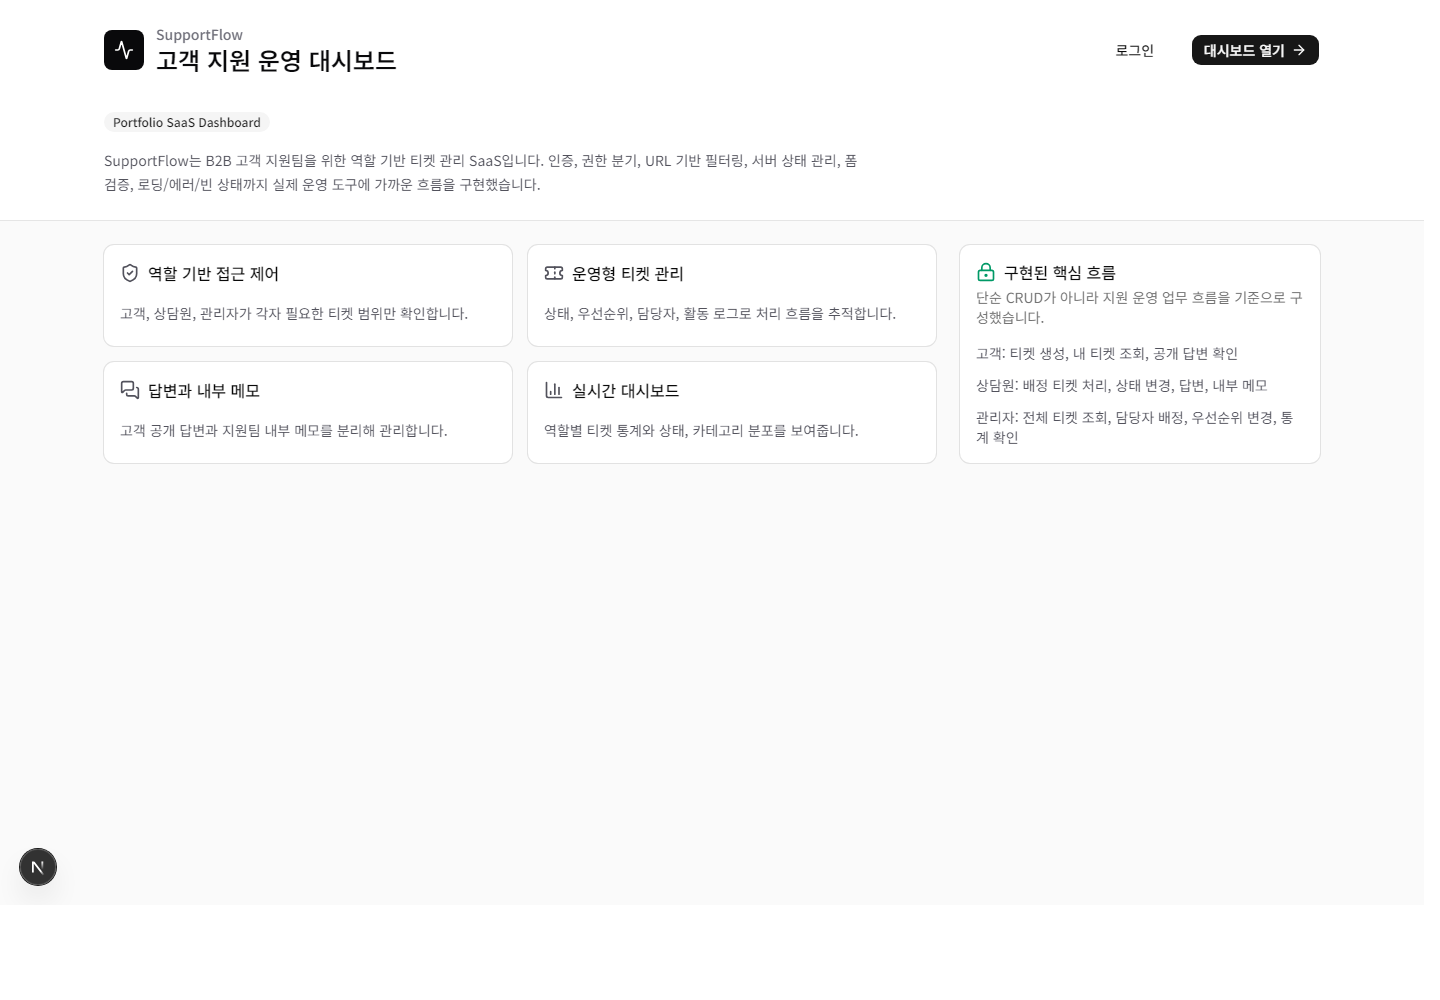
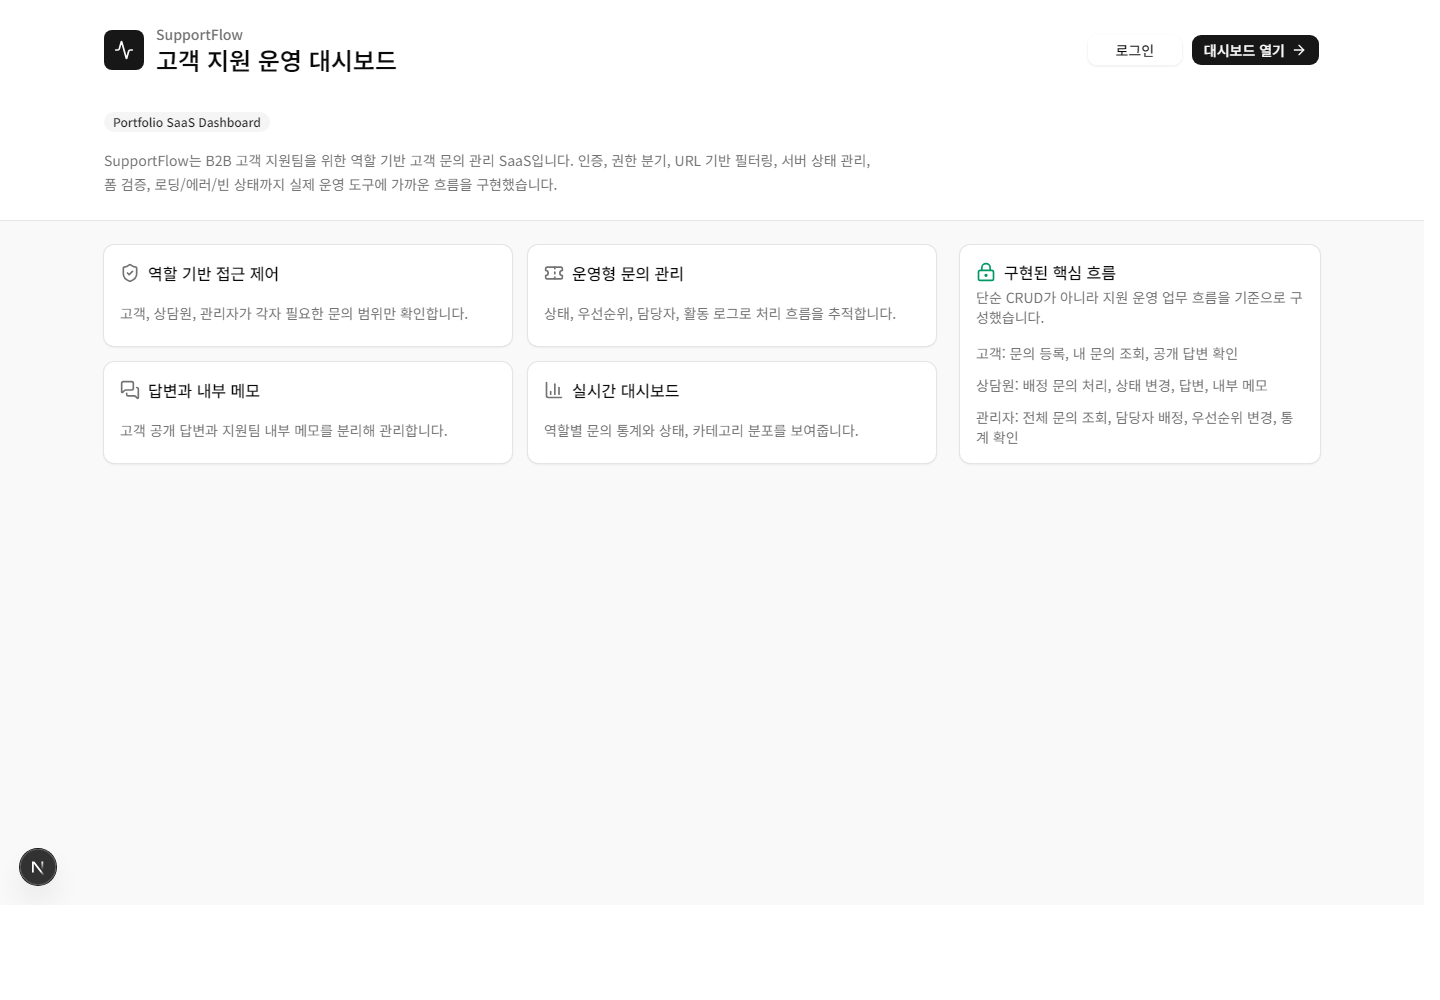
docs(readme): 최종 QA 내용과 스크린샷 갱신
고객 중심 문의 흐름, 단일 공식 답변, create_ticket_reply RPC, 고객 화면 메타데이터 처리 내용을 README에 반영했다.

공개 홈과 로그인 스크린샷을 최신 UI 기준으로 다시 캡처하고 최종 QA 체크리스트를 갱신했다.

diff --git a/README.md b/README.md
@@ -53,6 +53,7 @@ SupportFlow demonstrates the front-end patterns expected in an internal SaaS das
 - Status changes for agents and admins
 - Priority changes and agent assignment for admins
 - Customer-visible replies and internal support notes
+- Single official public reply per customer inquiry
 - Activity logs for ticket operations
 - Dashboard statistics by role-scoped ticket access
 - Light/dark mode toggle
@@ -64,13 +65,15 @@ SupportFlow enforces roles in both UI flow and Supabase row-level security.
 
 | Role | Access |
 | --- | --- |
-| Customer | Create tickets, view only own tickets, view public replies |
+| Customer | Create inquiries, view only own inquiries, view public replies |
 | Agent | View assigned tickets, reply, change status, add internal notes, view assigned-ticket dashboard |
 | Admin | View all tickets, assign agents, change priority/status, view operational dashboard statistics |
 
 The client receives the current profile and passes role context to feature hooks. Supabase RLS policies also restrict access at the database layer.
 
 Customer accounts are intentionally routed to `/tickets` instead of `/dashboard`. In a real support product, customers usually need a focused "my inquiries" area, while dashboards are operational tools for agents and admins.
+
+Customer-facing screens hide internal operation metadata such as assignee IDs, customer IDs, and priority. Agents and admins keep the full operational view.
 
 ## URL-Based Filtering
 
@@ -104,6 +107,8 @@ Server state is handled through feature hooks:
 
 Mutations invalidate ticket, ticket list, and dashboard queries after changes. Ticket action updates use optimistic UI updates with rollback on failure.
 
+Public reply creation uses the `create_ticket_reply` Supabase RPC. The function validates the authenticated user's role, creates the reply and activity log together, prevents duplicate public replies, and moves answered inquiries to `resolved`.
+
 ## Forms and Validation
 
 Forms use React Hook Form with Zod schemas:
@@ -117,6 +122,8 @@ Forms use React Hook Form with Zod schemas:
 Submit buttons are disabled while pending, and validation messages are shown next to the relevant field.
 
 Customers do not set operational priority when creating a ticket. New tickets use the database default priority and admins can adjust priority after triage.
+
+Agents and admins can create one customer-visible official answer per inquiry. Follow-up operational context should be recorded as internal notes.
 
 ## Loading, Error, Empty, and Unauthorized States
 
@@ -148,8 +155,6 @@ Screenshots are stored in `docs/screenshots`.
 | --- | --- |
 | Home | `docs/screenshots/home.png` |
 | Login | `docs/screenshots/login.png` |
-
-Dashboard and authenticated ticket screenshots should be captured after seed users are available in the deployed environment.
 
 ## Folder Structure
 
@@ -241,6 +246,7 @@ The schema includes:
 - `ticket_logs`
 - enum types for roles, status, and priority
 - RLS policies for customers, agents, and admins
+- `create_ticket_reply` RPC for reply creation and activity logging
 - trigger helpers for profile creation and ticket timestamps
 
 ## Demo Accounts
@@ -261,6 +267,20 @@ update public.profiles set role = 'agent' where email = 'agent@supportflow.dev';
 update public.profiles set role = 'admin' where email = 'admin@supportflow.dev';
 ```
 
+If you add the reply RPC after test data already exists, you can normalize answered inquiries:
+
+```sql
+update public.tickets
+set status = 'resolved'
+where status in ('open', 'in_progress')
+and exists (
+  select 1
+  from public.ticket_replies
+  where ticket_replies.ticket_id = tickets.id
+  and ticket_replies.is_internal = false
+);
+```
+
 ## Useful Scripts
 
 ```bash
@@ -277,6 +297,8 @@ npm.cmd run build
 | Signup succeeds but role is wrong | Update `profiles.role` in Supabase |
 | Agent sees no tickets | Assign tickets to the agent through an admin account |
 | Admin cannot assign agents | Verify admin profile role and profile select policy |
+| Customer cannot see a public reply | Verify the customer owns the inquiry and the public reply select policy exists |
+| Reply creation hits RLS | Re-run `docs/SUPABASE_SCHEMA.sql` or at least the `create_ticket_reply` function and grant |
 | `npm` is blocked in PowerShell | Use `npm.cmd run dev`, `npm.cmd run lint`, or `npm.cmd run build` |
 
 ## Deployment
@@ -284,7 +306,7 @@ npm.cmd run build
 Target platform: Vercel
 
 ```txt
-Deployment URL: TBD
+Deployment URL: Not deployed yet
 ```
 
 Add these environment variables in Vercel:
@@ -310,3 +332,6 @@ Completed phases:
 - Dashboard statistics
 - Polish
 - Portfolio documentation
+- Customer-facing inquiry UX refinements
+- Light/dark theme toggle
+- Final QA documentation pass

diff --git a/docs/TASKS.md b/docs/TASKS.md
@@ -130,5 +130,18 @@
 - [x] Add tech stack explanation
 - [x] Add folder structure explanation
 - [x] Add troubleshooting section
-- [x] Add deployment link
+- [x] Document deployment target
 - [x] Add screenshots
+
+## Final QA polish
+
+- [x] Route customers to inquiry list instead of dashboard
+- [x] Remove customer priority selection
+- [x] Use customer-facing inquiry terminology in the UI
+- [x] Add workspace navigation and logout
+- [x] Improve visual contrast
+- [x] Add light/dark theme toggle
+- [x] Fix reply creation through Supabase RPC
+- [x] Hide internal operation metadata from customer screens
+- [x] Limit public replies to one official customer answer
+- [x] Refresh public screenshots
